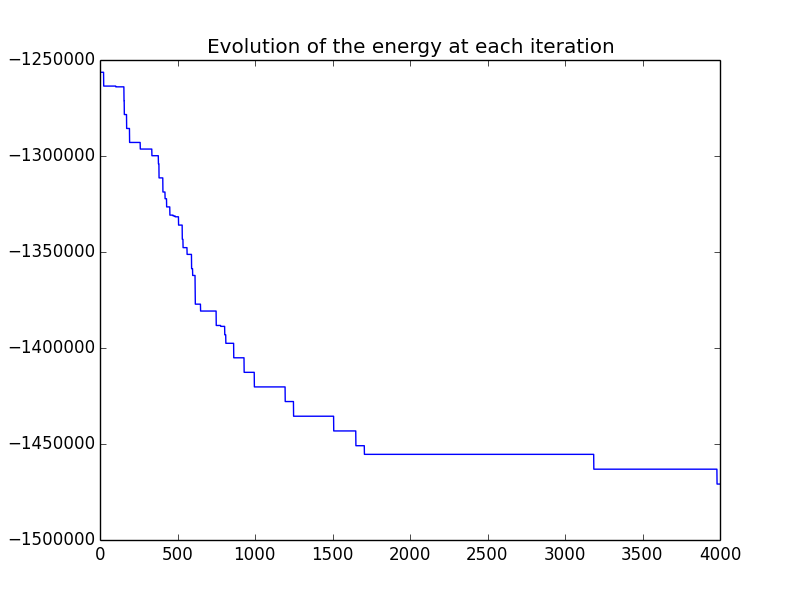
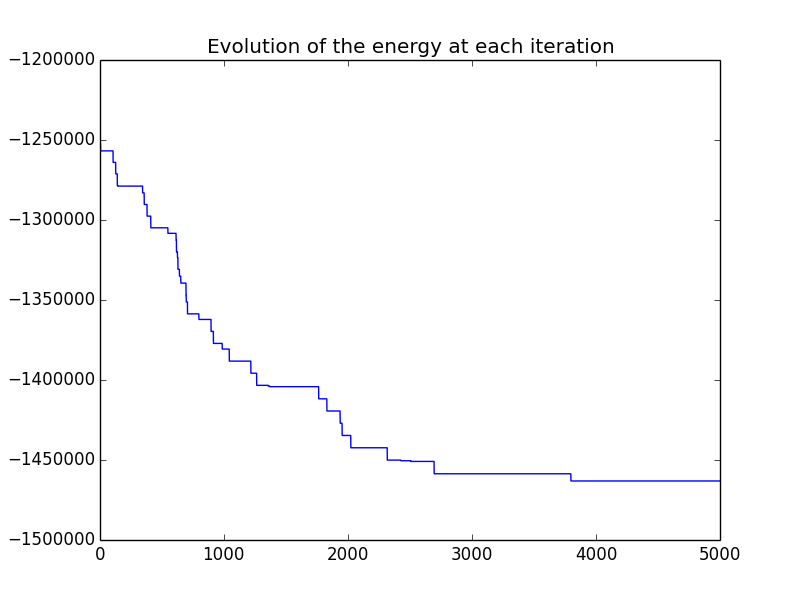
Added a plot for attractors' energy

diff --git a/hopfield/main.py b/hopfield/main.py
@@ -1,3 +1,5 @@
+from collections import Counter
+
 import numpy as np
 import matplotlib.pyplot as plt
 
@@ -89,13 +91,13 @@ def restoring_images():
     pattern = figs.p1
     attractors = set()
     print "! Pattern recovery with varying distortion:"
-    for n in xrange(1, len(pattern) - 1, 5):
+    for n in xrange(1, len(pattern) - 1, 10):
         print "  * n = {}/{}".format(n, len(pattern))
         for trial in xrange(10):
             noisy = utils.flipper(pattern, n)
-            for _ in xrange(20000):
+            for l in xrange(20000):
                 utils.updateOne(weights, noisy)
-                if utils.samePattern(pattern, noisy):
+                if l % 1000 == 0 and utils.samePattern(pattern, noisy):
                     break
             attractors.add(tuple(noisy.tolist()))
             if utils.samePattern(pattern, noisy):
@@ -109,13 +111,17 @@ def restoring_images():
 
 
     # Energy at the different attractors
-    for i, attr in enumerate(attractors):
-        print "* Energy at attractor #{}: {}".format(i + 1, utils.energy(weights, np.array(attr)))
-    print
+    x = Counter()
+    for attr in attractors:
+        energy = utils.energy(weights, np.array(attr))
+        x[energy] += 1
+    plt.plot(x.keys(), x.values(), 'b.')
+    plt.title("Energy at different attractors")
+    plt.show()
 
     # Studying the change of energy at each iteration
     noisy = utils.flipper(figs.p1, 40)
-    iterations = 4000
+    iterations = 5000
     iterations = range(iterations)
     energies = []
     for iteration in iterations:
@@ -291,7 +297,7 @@ def sparsePatterns(n, length, activity=0.1):
 
 if __name__ == '__main__':
     # small_patterns()
-    # restoring_images()
+    restoring_images()
     # random_connectivity()
 
     ## Capacity
